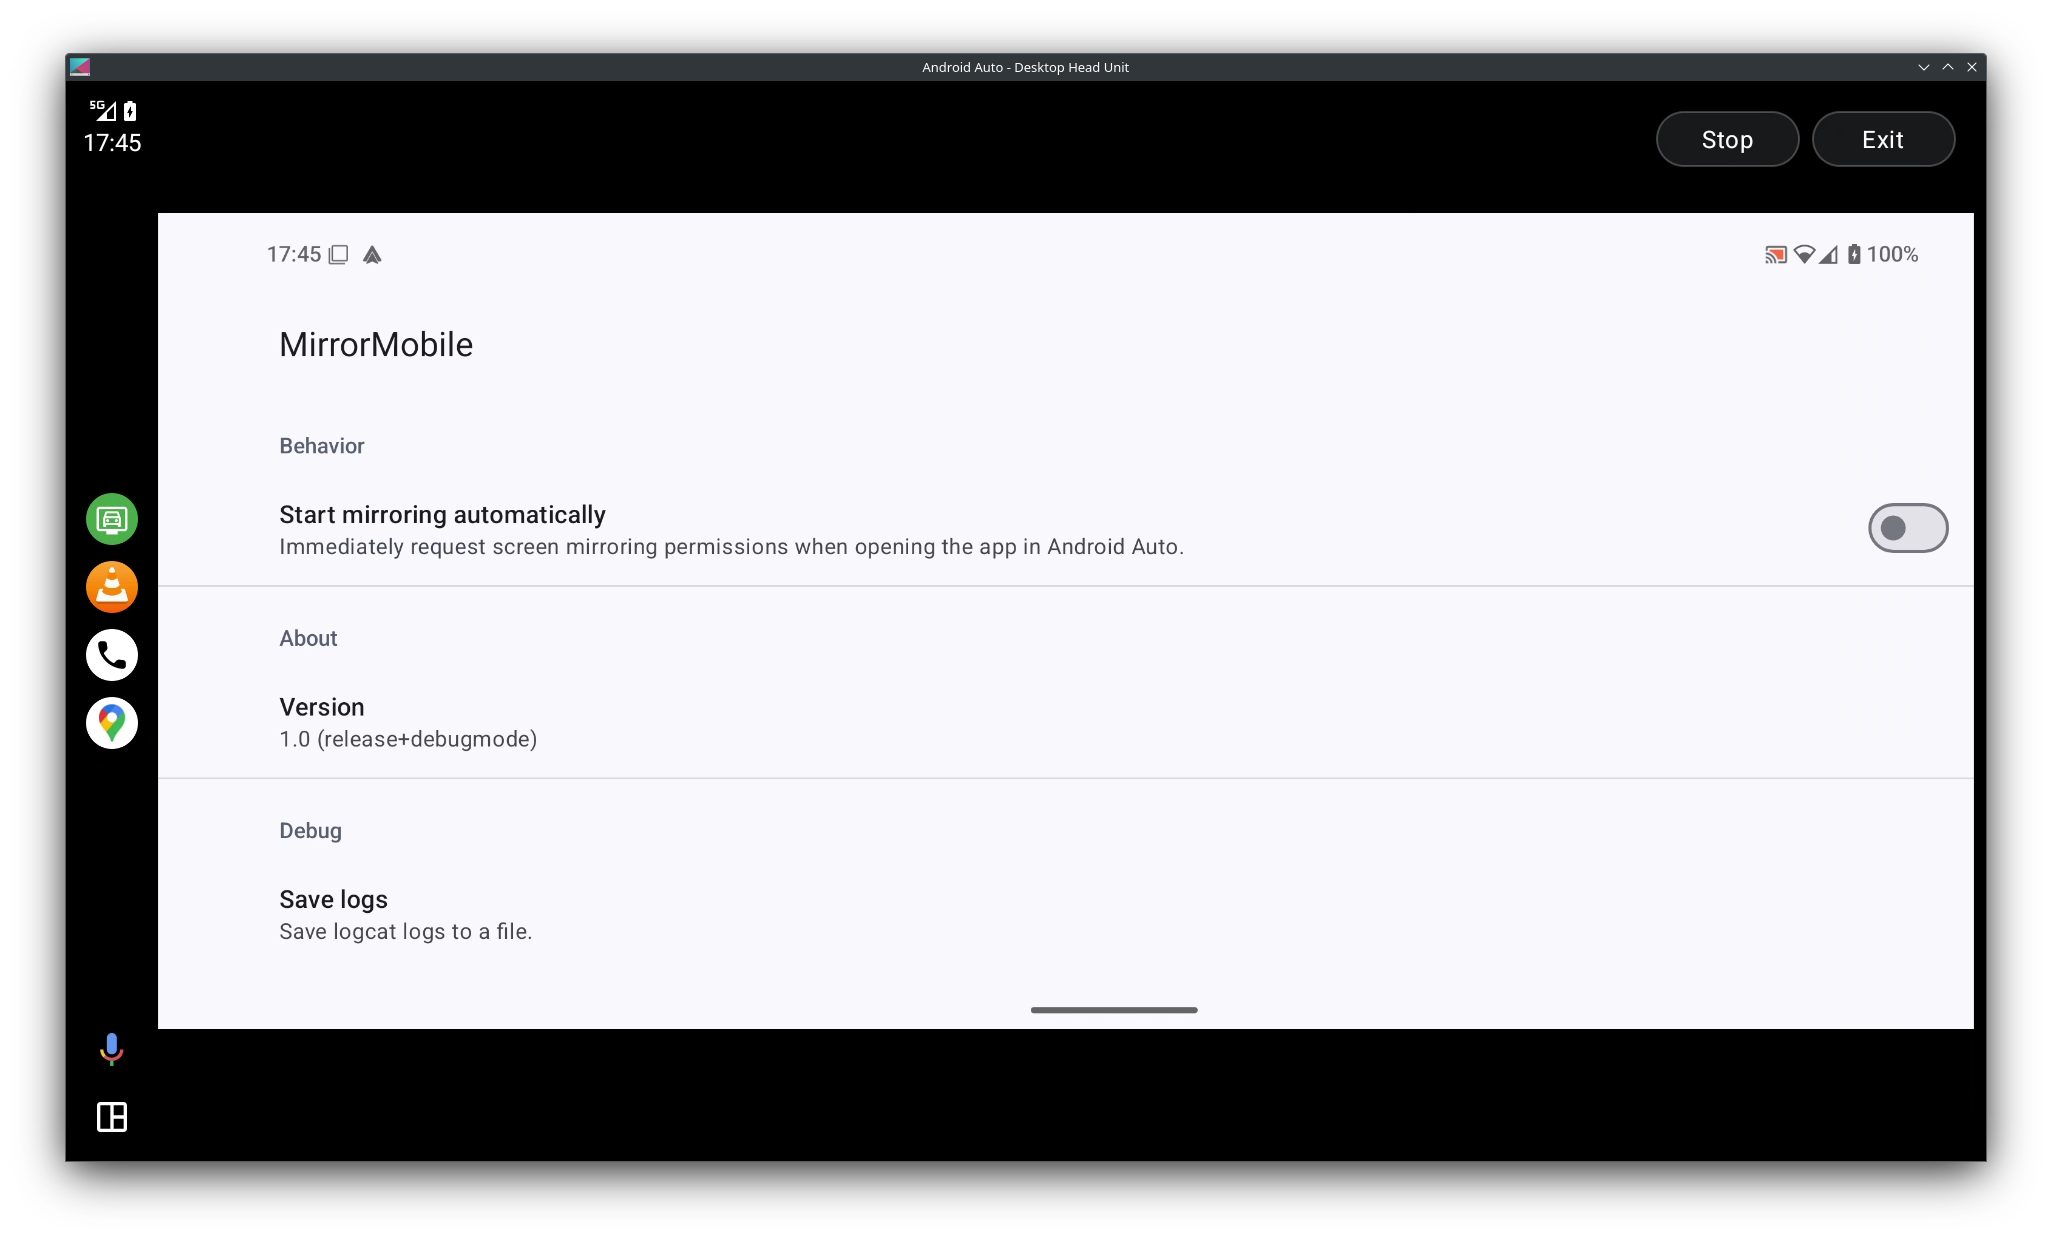
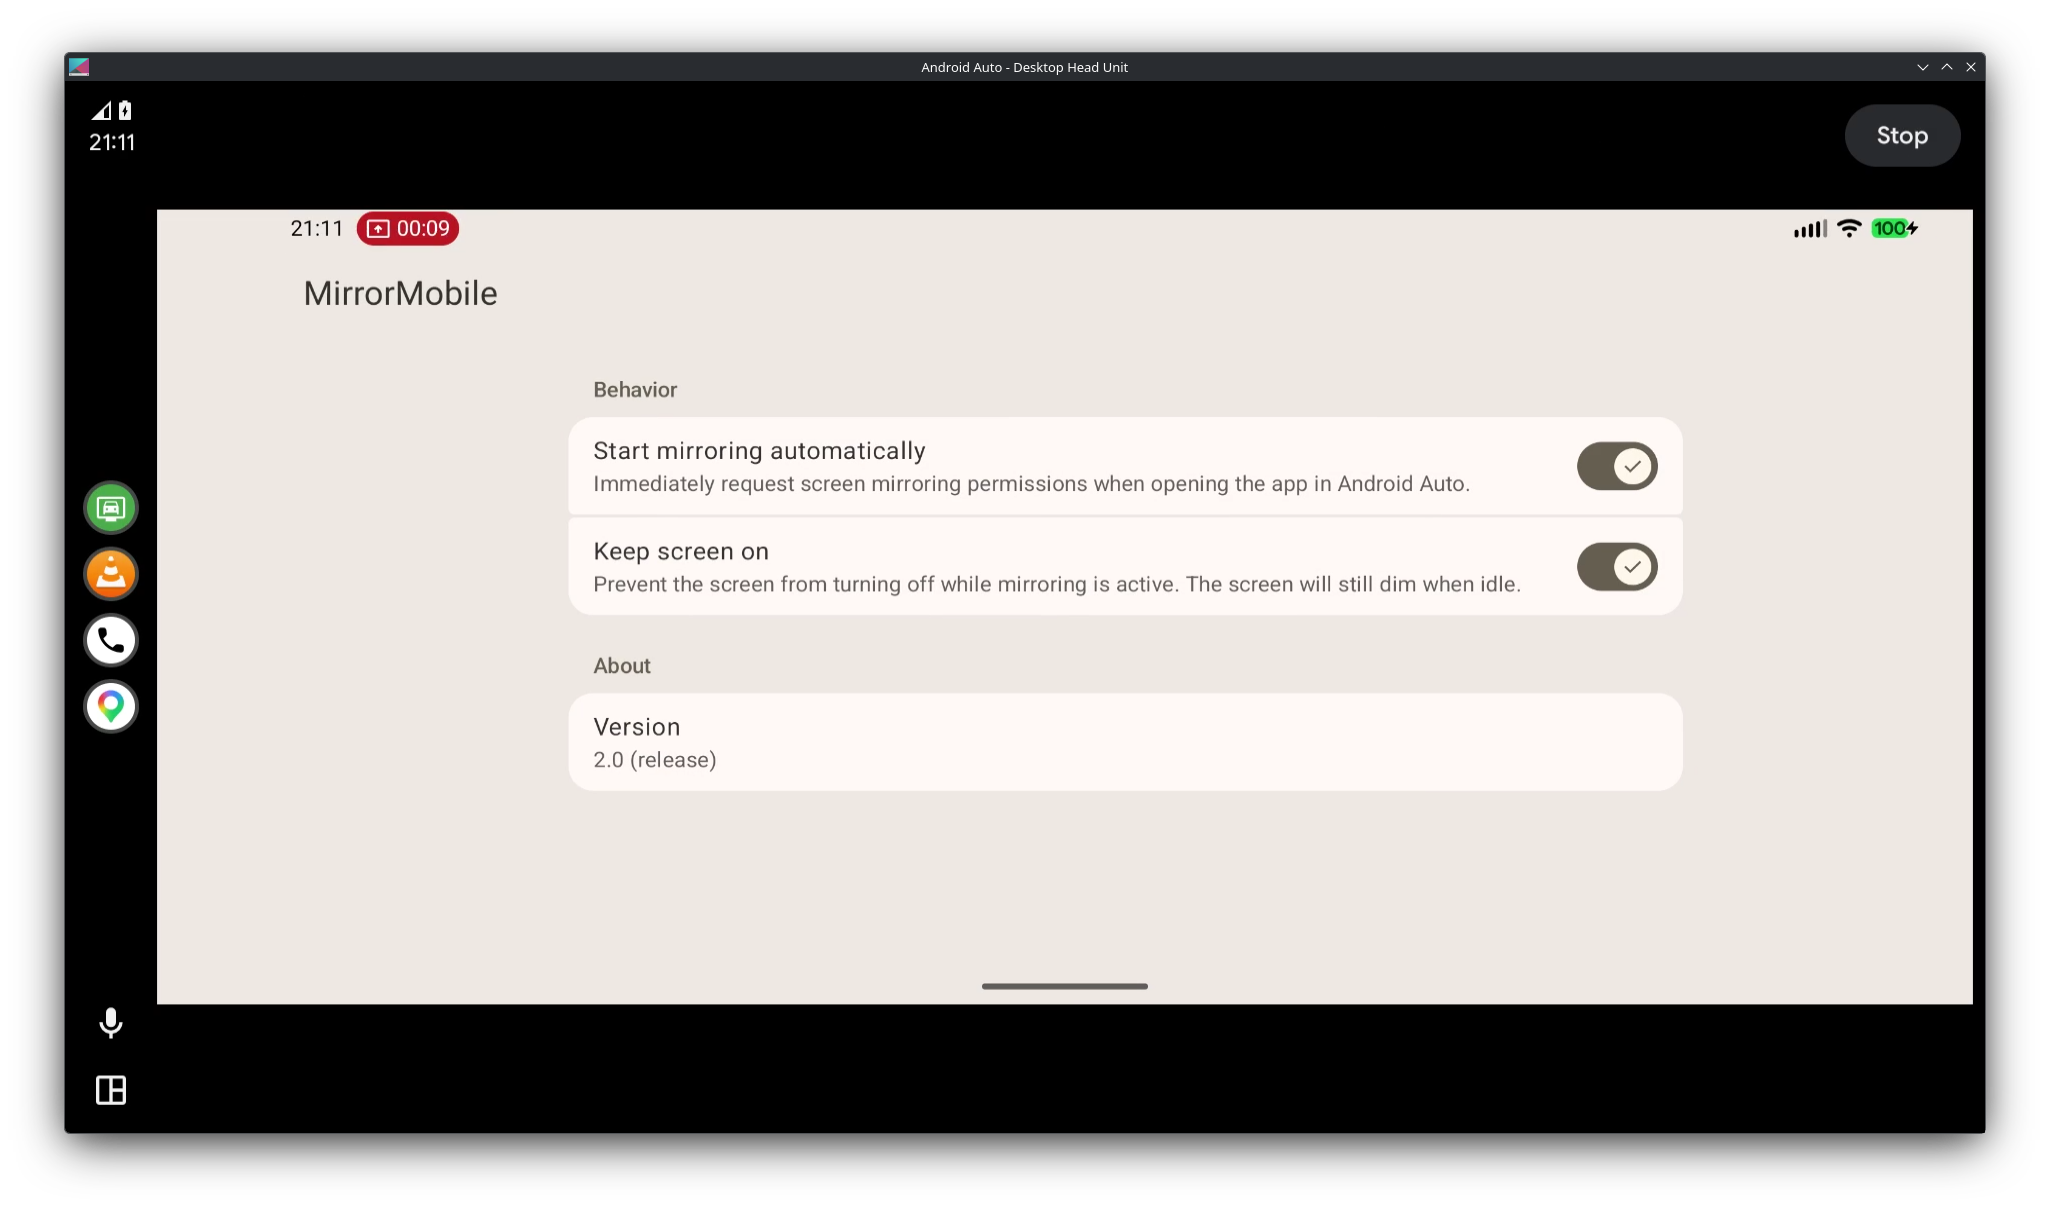
Version 2.0

diff --git a/CHANGELOG.md b/CHANGELOG.md
@@ -7,7 +7,7 @@
     to update the actual links at the bottom of the file.
 -->
 
-### Unreleased
+### Version 2.0
 
 * Port UI to Jetpack Compose and adopt Material 3 Expressive styling ([PR #13])
 * Update AGP to 9.0.0 ([PR #8])